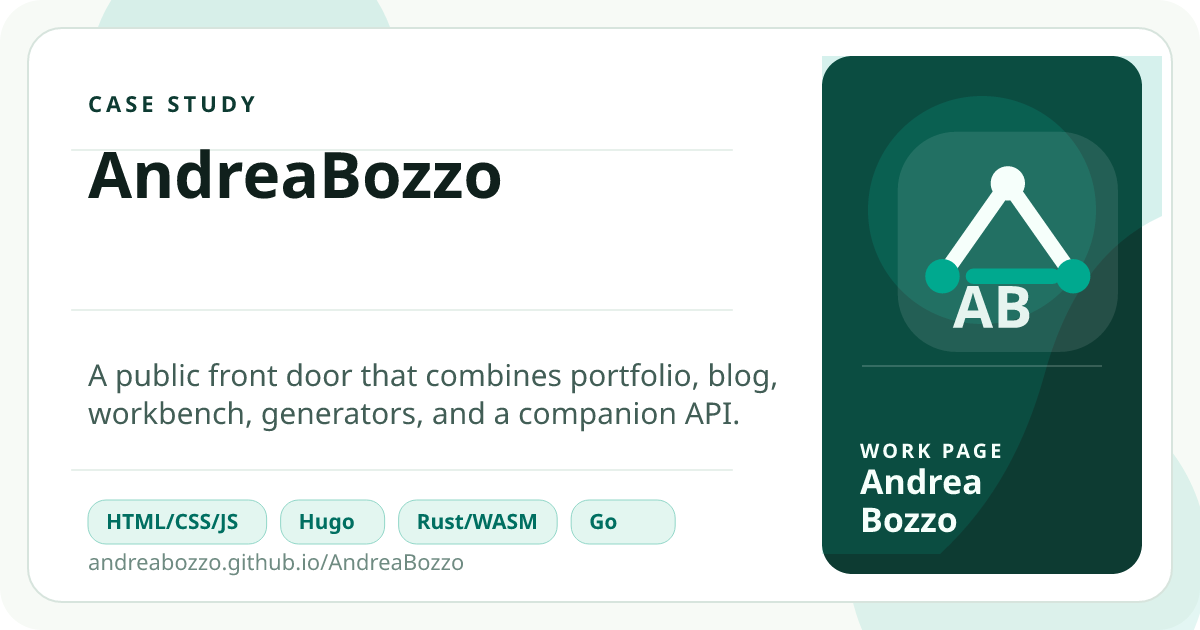
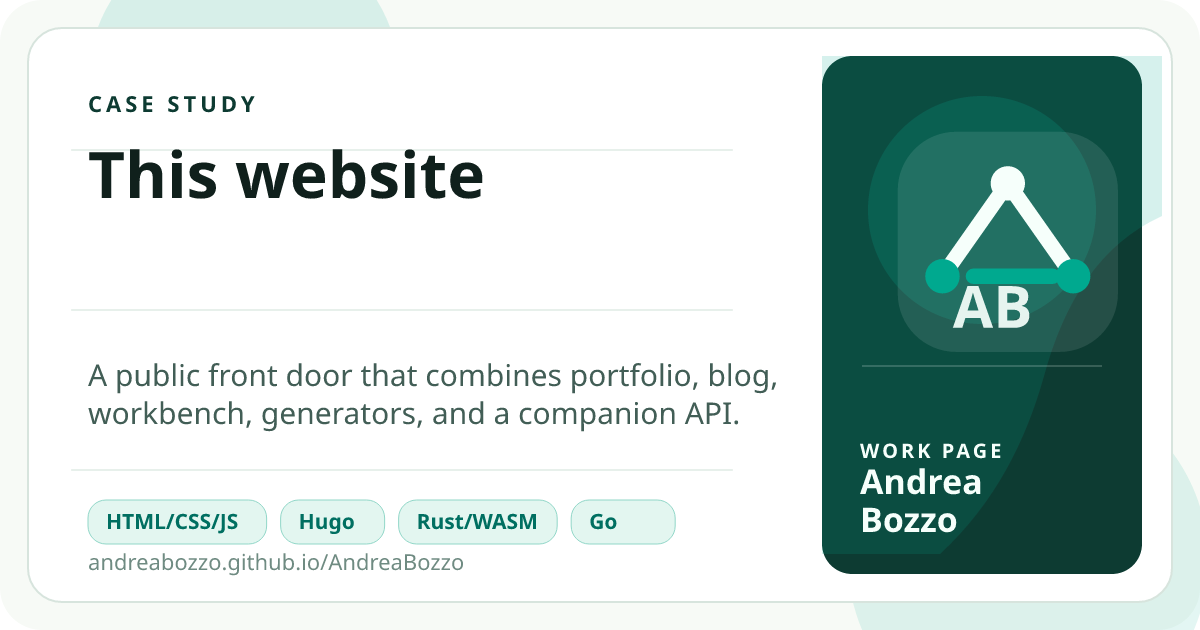
Update site content and metadata for improved clarity and relevance
- Changed site title and descriptions to reflect a more accurate representation of the website's purpose.
- Updated Open Graph and Twitter card metadata to align with new site title and descriptions.
- Modified SVG image text from "AndreaBozzo" to "This website" for consistency.
- Adjusted navigation links in various case study pages to refer to "This website" instead of "AndreaBozzo".
- Enhanced JSON-LD structured data with related links for DCE and Druid Segment Bridge case studies.
- Revised content in Mosaico case study to clarify its purpose and contributions.

Changed region(s): [[0.0617, 0.2413, 0.4317, 0.3317]]

diff --git a/it/work/andreabozzo-site/index.html b/it/work/andreabozzo-site/index.html
@@ -4,8 +4,8 @@
 <head>
     <meta charset="UTF-8">
     <meta name="viewport" content="width=device-width, initial-scale=1.0, viewport-fit=cover">
-    <title>AndreaBozzo | Andrea Bozzo</title>
-    <meta name="description" content="AndreaBozzo: il sito personale come sistema, con landing page handcrafted, blog Hugo, workbench Rust/WASM, generatori Go e API GitHub stats su Vercel.">
+    <title>Questo sito | Andrea Bozzo</title>
+    <meta name="description" content="Questo sito: il portfolio personale come sistema, con landing page handcrafted, blog Hugo, workbench Rust/WASM, generatori Go e API GitHub stats su Vercel.">
     <meta name="author" content="Andrea Bozzo">
     <meta name="robots" content="index, follow">
     <link rel="canonical" href="https://andreabozzo.github.io/AndreaBozzo/it/work/andreabozzo-site/">
@@ -15,20 +15,20 @@
     <meta property="og:locale" content="it_IT">
     <meta property="og:locale:alternate" content="en_US">
     <meta property="og:type" content="article">
-    <meta property="og:title" content="AndreaBozzo | Andrea Bozzo">
-    <meta property="og:description" content="AndreaBozzo: il sito personale come sistema, con landing page handcrafted, blog Hugo, workbench Rust/WASM, generatori Go e API GitHub stats su Vercel.">
+    <meta property="og:title" content="Questo sito | Andrea Bozzo">
+    <meta property="og:description" content="Questo sito: il portfolio personale come sistema, con landing page handcrafted, blog Hugo, workbench Rust/WASM, generatori Go e API GitHub stats su Vercel.">
     <meta property="og:url" content="https://andreabozzo.github.io/AndreaBozzo/it/work/andreabozzo-site/">
     <meta property="og:site_name" content="Andrea Bozzo">
     <meta property="og:image" content="https://andreabozzo.github.io/AndreaBozzo/assets/images/og/andreabozzo-site.png">
     <meta property="og:image:type" content="image/png">
     <meta property="og:image:width" content="1200">
     <meta property="og:image:height" content="630">
-    <meta property="og:image:alt" content="AndreaBozzo social card">
+    <meta property="og:image:alt" content="Questo sito social card">
     <meta name="twitter:card" content="summary_large_image">
-    <meta name="twitter:title" content="AndreaBozzo | Andrea Bozzo">
-    <meta name="twitter:description" content="AndreaBozzo: il sito personale come sistema, con landing page handcrafted, blog Hugo, workbench Rust/WASM, generatori Go e API GitHub stats su Vercel.">
+    <meta name="twitter:title" content="Questo sito | Andrea Bozzo">
+    <meta name="twitter:description" content="Questo sito: il portfolio personale come sistema, con landing page handcrafted, blog Hugo, workbench Rust/WASM, generatori Go e API GitHub stats su Vercel.">
     <meta name="twitter:image" content="https://andreabozzo.github.io/AndreaBozzo/assets/images/og/andreabozzo-site.png">
-    <meta name="twitter:image:alt" content="AndreaBozzo social card">
+    <meta name="twitter:image:alt" content="Questo sito social card">
     <meta name="theme-color" content="#f7faf6">
     <link rel="preconnect" href="https://fonts.googleapis.com">
     <link rel="preconnect" href="https://fonts.gstatic.com" crossorigin>
@@ -43,7 +43,7 @@
             document.documentElement.setAttribute('data-theme', savedTheme);
         })();
     </script>
-    <script type="application/ld+json">{"@context":"https://schema.org","@type":"CreativeWork","additionalType":"https://schema.org/CaseStudy","author":{"@type":"Person","name":"Andrea Bozzo","url":"https://andreabozzo.github.io/AndreaBozzo/"},"dateModified":"2026-05-15T08:01:30Z","description":"AndreaBozzo: il sito personale come sistema, con landing page handcrafted, blog Hugo, workbench Rust/WASM, generatori Go e API GitHub stats su Vercel.","headline":"AndreaBozzo","image":"https://andreabozzo.github.io/AndreaBozzo/assets/images/og/andreabozzo-site.png","inLanguage":"it","isPartOf":{"@id":"https://andreabozzo.github.io/AndreaBozzo/","@type":"WebSite"},"keywords":"HTML/CSS/JS, Hugo, Rust/WASM, Go, GitHub Pages","mainEntityOfPage":"https://andreabozzo.github.io/AndreaBozzo/it/work/andreabozzo-site/","mentions":[{"@type":"Thing","name":"HTML/CSS/JS"},{"@type":"Thing","name":"Hugo"},{"@type":"Thing","name":"Rust/WASM"},{"@type":"Thing","name":"Go"},{"@type":"Thing","name":"GitHub Pages"}],"name":"AndreaBozzo","publisher":{"@type":"Person","name":"Andrea Bozzo","url":"https://andreabozzo.github.io/AndreaBozzo/"},"sameAs":["https://github.com/AndreaBozzo/AndreaBozzo"],"url":"https://andreabozzo.github.io/AndreaBozzo/it/work/andreabozzo-site/"}</script>
+    <script type="application/ld+json">{"@context":"https://schema.org","@type":"CreativeWork","additionalType":"https://schema.org/CaseStudy","author":{"@type":"Person","name":"Andrea Bozzo","url":"https://andreabozzo.github.io/AndreaBozzo/"},"dateModified":"2026-05-15T08:01:30Z","description":"Questo sito: il portfolio personale come sistema, con landing page handcrafted, blog Hugo, workbench Rust/WASM, generatori Go e API GitHub stats su Vercel.","headline":"Questo sito","image":"https://andreabozzo.github.io/AndreaBozzo/assets/images/og/andreabozzo-site.png","inLanguage":"it","isPartOf":{"@id":"https://andreabozzo.github.io/AndreaBozzo/","@type":"WebSite"},"keywords":"HTML/CSS/JS, Hugo, Rust/WASM, Go, GitHub Pages","mainEntityOfPage":"https://andreabozzo.github.io/AndreaBozzo/it/work/andreabozzo-site/","mentions":[{"@type":"Thing","name":"HTML/CSS/JS"},{"@type":"Thing","name":"Hugo"},{"@type":"Thing","name":"Rust/WASM"},{"@type":"Thing","name":"Go"},{"@type":"Thing","name":"GitHub Pages"}],"name":"Questo sito","publisher":{"@type":"Person","name":"Andrea Bozzo","url":"https://andreabozzo.github.io/AndreaBozzo/"},"sameAs":["https://github.com/AndreaBozzo/AndreaBozzo"],"url":"https://andreabozzo.github.io/AndreaBozzo/it/work/andreabozzo-site/"}</script>
 </head>
 <body>
     <header class="site-header">
@@ -68,7 +68,7 @@
         <section class="case-hero">
             <div class="case-hero-copy">
                 <p class="eyebrow">Case Study</p>
-                <h1 class="title">AndreaBozzo</h1>
+                <h1 class="title">Questo sito</h1>
                 <p class="subtitle">Una porta d&#39;ingresso pubblica che combina portfolio, blog, workbench, generatori e una companion API.</p>
                 <div class="case-meta">
                     <span class="case-meta-status">Sistema live</span>

diff --git a/work/andreabozzo-site/index.html b/work/andreabozzo-site/index.html
@@ -4,7 +4,7 @@
 <head>
     <meta charset="UTF-8">
     <meta name="viewport" content="width=device-width, initial-scale=1.0, viewport-fit=cover">
-    <title>AndreaBozzo | Andrea Bozzo</title>
+    <title>This website | Andrea Bozzo</title>
     <meta name="description" content="This repository is both the personal website and the system behind it: a handcrafted landing page, a Hugo blog, a Rust/WASM knowledge workbench, Go generators for static artifacts, and a small Vercel-hosted GitHub stats API.">
     <meta name="author" content="Andrea Bozzo">
     <meta name="robots" content="index, follow">
@@ -15,7 +15,7 @@
     <meta property="og:locale" content="en_US">
     <meta property="og:locale:alternate" content="it_IT">
     <meta property="og:type" content="article">
-    <meta property="og:title" content="AndreaBozzo | Andrea Bozzo">
+    <meta property="og:title" content="This website | Andrea Bozzo">
     <meta property="og:description" content="This repository is both the personal website and the system behind it: a handcrafted landing page, a Hugo blog, a Rust/WASM knowledge workbench, Go generators for static artifacts, and a small Vercel-hosted GitHub stats API.">
     <meta property="og:url" content="https://andreabozzo.github.io/AndreaBozzo/work/andreabozzo-site/">
     <meta property="og:site_name" content="Andrea Bozzo">
@@ -23,12 +23,12 @@
     <meta property="og:image:type" content="image/png">
     <meta property="og:image:width" content="1200">
     <meta property="og:image:height" content="630">
-    <meta property="og:image:alt" content="AndreaBozzo social card">
+    <meta property="og:image:alt" content="This website social card">
     <meta name="twitter:card" content="summary_large_image">
-    <meta name="twitter:title" content="AndreaBozzo | Andrea Bozzo">
+    <meta name="twitter:title" content="This website | Andrea Bozzo">
     <meta name="twitter:description" content="This repository is both the personal website and the system behind it: a handcrafted landing page, a Hugo blog, a Rust/WASM knowledge workbench, Go generators for static artifacts, and a small Vercel-hosted GitHub stats API.">
     <meta name="twitter:image" content="https://andreabozzo.github.io/AndreaBozzo/assets/images/og/andreabozzo-site.png">
-    <meta name="twitter:image:alt" content="AndreaBozzo social card">
+    <meta name="twitter:image:alt" content="This website social card">
     <meta name="theme-color" content="#f7faf6">
     <link rel="preconnect" href="https://fonts.googleapis.com">
     <link rel="preconnect" href="https://fonts.gstatic.com" crossorigin>
@@ -43,7 +43,7 @@
             document.documentElement.setAttribute('data-theme', savedTheme);
         })();
     </script>
-    <script type="application/ld+json">{"@context":"https://schema.org","@type":"CreativeWork","additionalType":"https://schema.org/CaseStudy","author":{"@type":"Person","name":"Andrea Bozzo","url":"https://andreabozzo.github.io/AndreaBozzo/"},"dateModified":"2026-05-15T08:01:30Z","description":"This repository is both the personal website and the system behind it: a handcrafted landing page, a Hugo blog, a Rust/WASM knowledge workbench, Go generators for static artifacts, and a small Vercel-hosted GitHub stats API.","headline":"AndreaBozzo","image":"https://andreabozzo.github.io/AndreaBozzo/assets/images/og/andreabozzo-site.png","inLanguage":"en","isPartOf":{"@id":"https://andreabozzo.github.io/AndreaBozzo/","@type":"WebSite"},"keywords":"HTML/CSS/JS, Hugo, Rust/WASM, Go, GitHub Pages","mainEntityOfPage":"https://andreabozzo.github.io/AndreaBozzo/work/andreabozzo-site/","mentions":[{"@type":"Thing","name":"HTML/CSS/JS"},{"@type":"Thing","name":"Hugo"},{"@type":"Thing","name":"Rust/WASM"},{"@type":"Thing","name":"Go"},{"@type":"Thing","name":"GitHub Pages"}],"name":"AndreaBozzo","publisher":{"@type":"Person","name":"Andrea Bozzo","url":"https://andreabozzo.github.io/AndreaBozzo/"},"sameAs":["https://github.com/AndreaBozzo/AndreaBozzo"],"url":"https://andreabozzo.github.io/AndreaBozzo/work/andreabozzo-site/"}</script>
+    <script type="application/ld+json">{"@context":"https://schema.org","@type":"CreativeWork","additionalType":"https://schema.org/CaseStudy","author":{"@type":"Person","name":"Andrea Bozzo","url":"https://andreabozzo.github.io/AndreaBozzo/"},"dateModified":"2026-05-15T08:01:30Z","description":"This repository is both the personal website and the system behind it: a handcrafted landing page, a Hugo blog, a Rust/WASM knowledge workbench, Go generators for static artifacts, and a small Vercel-hosted GitHub stats API.","headline":"This website","image":"https://andreabozzo.github.io/AndreaBozzo/assets/images/og/andreabozzo-site.png","inLanguage":"en","isPartOf":{"@id":"https://andreabozzo.github.io/AndreaBozzo/","@type":"WebSite"},"keywords":"HTML/CSS/JS, Hugo, Rust/WASM, Go, GitHub Pages","mainEntityOfPage":"https://andreabozzo.github.io/AndreaBozzo/work/andreabozzo-site/","mentions":[{"@type":"Thing","name":"HTML/CSS/JS"},{"@type":"Thing","name":"Hugo"},{"@type":"Thing","name":"Rust/WASM"},{"@type":"Thing","name":"Go"},{"@type":"Thing","name":"GitHub Pages"}],"name":"This website","publisher":{"@type":"Person","name":"Andrea Bozzo","url":"https://andreabozzo.github.io/AndreaBozzo/"},"sameAs":["https://github.com/AndreaBozzo/AndreaBozzo"],"url":"https://andreabozzo.github.io/AndreaBozzo/work/andreabozzo-site/"}</script>
 </head>
 <body>
     <header class="site-header">
@@ -68,7 +68,7 @@
         <section class="case-hero">
             <div class="case-hero-copy">
                 <p class="eyebrow">Case Study</p>
-                <h1 class="title">AndreaBozzo</h1>
+                <h1 class="title">This website</h1>
                 <p class="subtitle">A public front door that combines portfolio, blog, workbench, generators, and a companion API.</p>
                 <div class="case-meta">
                     <span class="case-meta-status">Live system</span>

diff --git a/work/druid-datafusion-bridge/index.html b/work/druid-datafusion-bridge/index.html
@@ -43,7 +43,7 @@
             document.documentElement.setAttribute('data-theme', savedTheme);
         })();
     </script>
-    <script type="application/ld+json">{"@context":"https://schema.org","@type":"CreativeWork","additionalType":"https://schema.org/CaseStudy","author":{"@type":"Person","name":"Andrea Bozzo","url":"https://andreabozzo.github.io/AndreaBozzo/"},"dateModified":"2026-05-15T08:01:30Z","description":"A Rust bridge that reads Druid segment files directly and exposes them to DataFusion as queryable tables without requiring a running Druid cluster.","headline":"Druid Segment Bridge","image":"https://andreabozzo.github.io/AndreaBozzo/assets/images/og/druid-datafusion-bridge.png","inLanguage":"en","isPartOf":{"@id":"https://andreabozzo.github.io/AndreaBozzo/","@type":"WebSite"},"keywords":"Rust, Apache Druid, DataFusion, Arrow, Query Engine","mainEntityOfPage":"https://andreabozzo.github.io/AndreaBozzo/work/druid-datafusion-bridge/","mentions":[{"@type":"Thing","name":"Rust"},{"@type":"Thing","name":"Apache Druid"},{"@type":"Thing","name":"DataFusion"},{"@type":"Thing","name":"Arrow"},{"@type":"Thing","name":"Query Engine"}],"name":"Druid Segment Bridge","publisher":{"@type":"Person","name":"Andrea Bozzo","url":"https://andreabozzo.github.io/AndreaBozzo/"},"sameAs":["https://github.com/AndreaBozzo/druid-datafusion-bridge"],"url":"https://andreabozzo.github.io/AndreaBozzo/work/druid-datafusion-bridge/"}</script>
+    <script type="application/ld+json">{"@context":"https://schema.org","@type":"CreativeWork","additionalType":"https://schema.org/CaseStudy","author":{"@type":"Person","name":"Andrea Bozzo","url":"https://andreabozzo.github.io/AndreaBozzo/"},"dateModified":"2026-05-15T08:01:30Z","description":"A Rust bridge that reads Druid segment files directly and exposes them to DataFusion as queryable tables without requiring a running Druid cluster.","headline":"Druid Segment Bridge","image":"https://andreabozzo.github.io/AndreaBozzo/assets/images/og/druid-datafusion-bridge.png","inLanguage":"en","isPartOf":{"@id":"https://andreabozzo.github.io/AndreaBozzo/","@type":"WebSite"},"keywords":"Rust, Apache Druid, DataFusion, Arrow, Query Engine","mainEntityOfPage":"https://andreabozzo.github.io/AndreaBozzo/work/druid-datafusion-bridge/","mentions":[{"@type":"Thing","name":"Rust"},{"@type":"Thing","name":"Apache Druid"},{"@type":"Thing","name":"DataFusion"},{"@type":"Thing","name":"Arrow"},{"@type":"Thing","name":"Query Engine"}],"name":"Druid Segment Bridge","publisher":{"@type":"Person","name":"Andrea Bozzo","url":"https://andreabozzo.github.io/AndreaBozzo/"},"relatedLink":["https://andreabozzo.github.io/AndreaBozzo/blog/en/posts/polarsruststack-blog/"],"sameAs":["https://github.com/AndreaBozzo/druid-datafusion-bridge"],"url":"https://andreabozzo.github.io/AndreaBozzo/work/druid-datafusion-bridge/"}</script>
 </head>
 <body>
     <header class="site-header">
@@ -174,6 +174,7 @@
             </div>
             <aside class="case-aside">
                 <a class="btn btn-primary" href="https://github.com/AndreaBozzo/druid-datafusion-bridge" target="_blank" rel="noopener noreferrer">Repository</a>
+                <a class="btn btn-secondary" href="../../blog/en/posts/polarsruststack-blog/">Related article</a>
 
                 <section class="case-data-group" aria-label="Proof metrics">
                     <p class="case-data-kicker">Proof metrics</p>

diff --git a/it/work/druid-datafusion-bridge/index.html b/it/work/druid-datafusion-bridge/index.html
@@ -43,7 +43,7 @@
             document.documentElement.setAttribute('data-theme', savedTheme);
         })();
     </script>
-    <script type="application/ld+json">{"@context":"https://schema.org","@type":"CreativeWork","additionalType":"https://schema.org/CaseStudy","author":{"@type":"Person","name":"Andrea Bozzo","url":"https://andreabozzo.github.io/AndreaBozzo/"},"dateModified":"2026-05-15T08:01:30Z","description":"druid-datafusion-bridge: bridge Rust che legge segmenti Apache Druid direttamente e li espone come tabelle DataFusion.","headline":"Druid Segment Bridge","image":"https://andreabozzo.github.io/AndreaBozzo/assets/images/og/druid-datafusion-bridge.png","inLanguage":"it","isPartOf":{"@id":"https://andreabozzo.github.io/AndreaBozzo/","@type":"WebSite"},"keywords":"Rust, Apache Druid, DataFusion, Arrow, Query Engine","mainEntityOfPage":"https://andreabozzo.github.io/AndreaBozzo/it/work/druid-datafusion-bridge/","mentions":[{"@type":"Thing","name":"Rust"},{"@type":"Thing","name":"Apache Druid"},{"@type":"Thing","name":"DataFusion"},{"@type":"Thing","name":"Arrow"},{"@type":"Thing","name":"Query Engine"}],"name":"Druid Segment Bridge","publisher":{"@type":"Person","name":"Andrea Bozzo","url":"https://andreabozzo.github.io/AndreaBozzo/"},"sameAs":["https://github.com/AndreaBozzo/druid-datafusion-bridge"],"url":"https://andreabozzo.github.io/AndreaBozzo/it/work/druid-datafusion-bridge/"}</script>
+    <script type="application/ld+json">{"@context":"https://schema.org","@type":"CreativeWork","additionalType":"https://schema.org/CaseStudy","author":{"@type":"Person","name":"Andrea Bozzo","url":"https://andreabozzo.github.io/AndreaBozzo/"},"dateModified":"2026-05-15T08:01:30Z","description":"druid-datafusion-bridge: bridge Rust che legge segmenti Apache Druid direttamente e li espone come tabelle DataFusion.","headline":"Druid Segment Bridge","image":"https://andreabozzo.github.io/AndreaBozzo/assets/images/og/druid-datafusion-bridge.png","inLanguage":"it","isPartOf":{"@id":"https://andreabozzo.github.io/AndreaBozzo/","@type":"WebSite"},"keywords":"Rust, Apache Druid, DataFusion, Arrow, Query Engine","mainEntityOfPage":"https://andreabozzo.github.io/AndreaBozzo/it/work/druid-datafusion-bridge/","mentions":[{"@type":"Thing","name":"Rust"},{"@type":"Thing","name":"Apache Druid"},{"@type":"Thing","name":"DataFusion"},{"@type":"Thing","name":"Arrow"},{"@type":"Thing","name":"Query Engine"}],"name":"Druid Segment Bridge","publisher":{"@type":"Person","name":"Andrea Bozzo","url":"https://andreabozzo.github.io/AndreaBozzo/"},"relatedLink":["https://andreabozzo.github.io/AndreaBozzo/blog/posts/polarsruststack-blog/"],"sameAs":["https://github.com/AndreaBozzo/druid-datafusion-bridge"],"url":"https://andreabozzo.github.io/AndreaBozzo/it/work/druid-datafusion-bridge/"}</script>
 </head>
 <body>
     <header class="site-header">
@@ -174,6 +174,7 @@
             </div>
             <aside class="case-aside">
                 <a class="btn btn-primary" href="https://github.com/AndreaBozzo/druid-datafusion-bridge" target="_blank" rel="noopener noreferrer">Repository</a>
+                <a class="btn btn-secondary" href="../../../blog/posts/polarsruststack-blog/">Related article</a>
 
                 <section class="case-data-group" aria-label="Metriche di prova">
                     <p class="case-data-kicker">Metriche di prova</p>

diff --git a/work/dce/index.html b/work/dce/index.html
@@ -43,7 +43,7 @@
             document.documentElement.setAttribute('data-theme', savedTheme);
         })();
     </script>
-    <script type="application/ld+json">{"@context":"https://schema.org","@type":"CreativeWork","additionalType":"https://schema.org/CaseStudy","author":{"@type":"Person","name":"Andrea Bozzo","url":"https://andreabozzo.github.io/AndreaBozzo/"},"dateModified":"2026-05-15T08:01:30Z","description":"A Rust-native engine for defining, validating, and enforcing data contracts across modern table formats, shifting quality checks from after-the-fact profiling to contract execution.","headline":"DCE","image":"https://andreabozzo.github.io/AndreaBozzo/assets/images/og/dce.png","inLanguage":"en","isPartOf":{"@id":"https://andreabozzo.github.io/AndreaBozzo/","@type":"WebSite"},"keywords":"Rust, Data Contracts, Data Quality, Iceberg, YAML","mainEntityOfPage":"https://andreabozzo.github.io/AndreaBozzo/work/dce/","mentions":[{"@type":"Thing","name":"Rust"},{"@type":"Thing","name":"Data Contracts"},{"@type":"Thing","name":"Data Quality"},{"@type":"Thing","name":"Iceberg"},{"@type":"Thing","name":"YAML"}],"name":"DCE","publisher":{"@type":"Person","name":"Andrea Bozzo","url":"https://andreabozzo.github.io/AndreaBozzo/"},"sameAs":["https://github.com/AndreaBozzo/dce"],"url":"https://andreabozzo.github.io/AndreaBozzo/work/dce/"}</script>
+    <script type="application/ld+json">{"@context":"https://schema.org","@type":"CreativeWork","additionalType":"https://schema.org/CaseStudy","author":{"@type":"Person","name":"Andrea Bozzo","url":"https://andreabozzo.github.io/AndreaBozzo/"},"dateModified":"2026-05-15T08:01:30Z","description":"A Rust-native engine for defining, validating, and enforcing data contracts across modern table formats, shifting quality checks from after-the-fact profiling to contract execution.","headline":"DCE","image":"https://andreabozzo.github.io/AndreaBozzo/assets/images/og/dce.png","inLanguage":"en","isPartOf":{"@id":"https://andreabozzo.github.io/AndreaBozzo/","@type":"WebSite"},"keywords":"Rust, Data Contracts, Data Quality, Iceberg, YAML","mainEntityOfPage":"https://andreabozzo.github.io/AndreaBozzo/work/dce/","mentions":[{"@type":"Thing","name":"Rust"},{"@type":"Thing","name":"Data Contracts"},{"@type":"Thing","name":"Data Quality"},{"@type":"Thing","name":"Iceberg"},{"@type":"Thing","name":"YAML"}],"name":"DCE","publisher":{"@type":"Person","name":"Andrea Bozzo","url":"https://andreabozzo.github.io/AndreaBozzo/"},"relatedLink":["https://andreabozzo.github.io/AndreaBozzo/blog/en/posts/tabularmlpipes-blog/"],"sameAs":["https://github.com/AndreaBozzo/dce"],"url":"https://andreabozzo.github.io/AndreaBozzo/work/dce/"}</script>
 </head>
 <body>
     <header class="site-header">
@@ -174,6 +174,7 @@
             </div>
             <aside class="case-aside">
                 <a class="btn btn-primary" href="https://github.com/AndreaBozzo/dce" target="_blank" rel="noopener noreferrer">Repository</a>
+                <a class="btn btn-secondary" href="../../blog/en/posts/tabularmlpipes-blog/">Related article</a>
 
                 <section class="case-data-group" aria-label="Proof metrics">
                     <p class="case-data-kicker">Proof metrics</p>

diff --git a/it/work/dce/index.html b/it/work/dce/index.html
@@ -43,7 +43,7 @@
             document.documentElement.setAttribute('data-theme', savedTheme);
         })();
     </script>
-    <script type="application/ld+json">{"@context":"https://schema.org","@type":"CreativeWork","additionalType":"https://schema.org/CaseStudy","author":{"@type":"Person","name":"Andrea Bozzo","url":"https://andreabozzo.github.io/AndreaBozzo/"},"dateModified":"2026-05-15T08:01:30Z","description":"DCE: motore Rust-native per definire e applicare data contract su formati di tabella moderni, costruito dal core di dataprof.","headline":"DCE","image":"https://andreabozzo.github.io/AndreaBozzo/assets/images/og/dce.png","inLanguage":"it","isPartOf":{"@id":"https://andreabozzo.github.io/AndreaBozzo/","@type":"WebSite"},"keywords":"Rust, Data Contracts, Data Quality, Iceberg, YAML","mainEntityOfPage":"https://andreabozzo.github.io/AndreaBozzo/it/work/dce/","mentions":[{"@type":"Thing","name":"Rust"},{"@type":"Thing","name":"Data Contracts"},{"@type":"Thing","name":"Data Quality"},{"@type":"Thing","name":"Iceberg"},{"@type":"Thing","name":"YAML"}],"name":"DCE","publisher":{"@type":"Person","name":"Andrea Bozzo","url":"https://andreabozzo.github.io/AndreaBozzo/"},"sameAs":["https://github.com/AndreaBozzo/dce"],"url":"https://andreabozzo.github.io/AndreaBozzo/it/work/dce/"}</script>
+    <script type="application/ld+json">{"@context":"https://schema.org","@type":"CreativeWork","additionalType":"https://schema.org/CaseStudy","author":{"@type":"Person","name":"Andrea Bozzo","url":"https://andreabozzo.github.io/AndreaBozzo/"},"dateModified":"2026-05-15T08:01:30Z","description":"DCE: motore Rust-native per definire e applicare data contract su formati di tabella moderni, costruito dal core di dataprof.","headline":"DCE","image":"https://andreabozzo.github.io/AndreaBozzo/assets/images/og/dce.png","inLanguage":"it","isPartOf":{"@id":"https://andreabozzo.github.io/AndreaBozzo/","@type":"WebSite"},"keywords":"Rust, Data Contracts, Data Quality, Iceberg, YAML","mainEntityOfPage":"https://andreabozzo.github.io/AndreaBozzo/it/work/dce/","mentions":[{"@type":"Thing","name":"Rust"},{"@type":"Thing","name":"Data Contracts"},{"@type":"Thing","name":"Data Quality"},{"@type":"Thing","name":"Iceberg"},{"@type":"Thing","name":"YAML"}],"name":"DCE","publisher":{"@type":"Person","name":"Andrea Bozzo","url":"https://andreabozzo.github.io/AndreaBozzo/"},"relatedLink":["https://andreabozzo.github.io/AndreaBozzo/blog/posts/tabularmlpipes-blog/"],"sameAs":["https://github.com/AndreaBozzo/dce"],"url":"https://andreabozzo.github.io/AndreaBozzo/it/work/dce/"}</script>
 </head>
 <body>
     <header class="site-header">
@@ -174,6 +174,7 @@
             </div>
             <aside class="case-aside">
                 <a class="btn btn-primary" href="https://github.com/AndreaBozzo/dce" target="_blank" rel="noopener noreferrer">Repository</a>
+                <a class="btn btn-secondary" href="../../../blog/posts/tabularmlpipes-blog/">Related article</a>
 
                 <section class="case-data-group" aria-label="Metriche di prova">
                     <p class="case-data-kicker">Metriche di prova</p>

diff --git a/it/work/mosaico/index.html b/it/work/mosaico/index.html
@@ -135,14 +135,14 @@
         <section class="case-layout">
             <div class="case-content">
                 <article class="case-main">
-                    <h2>Perché conta</h2>
-                    <p>I sistemi di robotica e physical-AI hanno bisogno di primitive di piattaforma dati che restino comprensibili quando gli esperimenti diventano operazioni reali. La pressione interessante è che questi sistemi sono insieme ambienti di ricerca e candidati per la produzione: i team hanno bisogno di iterazione veloce, ma anche di dataset riproducibili, job affidabili e interfacce che non collassino quando più ingegneri iniziano a dipenderne.</p>
+                    <h2>Perché esiste</h2>
+                    <p>I sistemi di robotica e physical-AI sono allo stesso tempo ambienti di ricerca e candidati alla produzione. I team hanno bisogno di iterazione veloce, ma anche di dataset riproducibili, job affidabili e interfacce che reggano quando più ingegneri iniziano a dipenderne. Mosaico è interessante proprio perché deve servire entrambe le modalità senza collassare in nessuna delle due.</p>
 
                     <h2>Centro tecnico</h2>
-                    <p>Il lavoro interessante sta ai confini dell&#39;integrazione: come l&#39;orchestrazione resta flessibile abbastanza per la sperimentazione restando debug-friendly per l&#39;ingegnere successivo. In Mosaico questo significa prestare attenzione ai contratti SDK e backend, al comportamento della CI, all&#39;ergonomia delle query e ai punti in cui il codice di piattaforma deve supportare workflow di robotica reali e disordinati senza nascondere troppo dietro la magia.</p>
+                    <p>Il lavoro di contribuzione sta ai confini dell&#39;integrazione: contratti SDK e backend, comportamento della CI, ergonomia delle query e i punti in cui l&#39;orchestrazione deve restare debug-friendly per l&#39;ingegnere successivo. Ogni PR mira a una giuntura in cui il codice di piattaforma incontra workflow di robotica reali e disordinati — i posti dove le astrazioni di comodo perdono di più.</p>
 
                     <h2>Prove correnti</h2>
-                    <p>Questo è già più di un riassunto di piattaforma: la cronologia visibile delle contribuzioni cade esattamente sui confini di workflow che contano nei sistemi di robotica, dove affidabilità della CI, ergonomia delle query e compatibilità SDK-server determinano se il tooling dati resta usabile dall&#39;ingegnere successivo. Il case study è utile perché tratta il lavoro di contribuzione come modo per capire una piattaforma dall&#39;interno, invece che come panoramica distaccata.</p>
+                    <p>La cronologia visibile delle contribuzioni cade sui confini di workflow che decidono se una piattaforma dati per robotica resta usabile tra team: affidabilità della CI, ergonomia delle query e compatibilità SDK-server. Il case study tratta il lavoro di contribuzione come modo per imparare una piattaforma dall&#39;interno, non come riassunto distaccato.</p>
 
                 </article>
 

diff --git a/work/mosaico/index.html b/work/mosaico/index.html
@@ -135,14 +135,14 @@
         <section class="case-layout">
             <div class="case-content">
                 <article class="case-main">
-                    <h2>Why it matters</h2>
-                    <p>Robotics and physical-AI systems need data platform primitives that remain understandable once experiments become real operations. The interesting pressure is that these systems are both research environments and production candidates: teams need fast iteration, but they also need reproducible datasets, reliable jobs, and interfaces that do not collapse when multiple engineers start depending on them.</p>
+                    <h2>Why it exists</h2>
+                    <p>Robotics and physical-AI systems are both research environments and production candidates at the same time. Teams need fast iteration, but they also need reproducible datasets, reliable jobs, and interfaces that hold up once multiple engineers start depending on them. Mosaico is interesting precisely because it has to serve both modes without collapsing into either one.</p>
 
                     <h2>Technical center</h2>
-                    <p>The interesting work sits at integration boundaries: how orchestration stays flexible enough for experimentation while remaining debuggable for the next engineer. In Mosaico that means paying attention to SDK and backend contracts, CI behavior, query ergonomics, and the places where platform code has to support messy real-world robotics workflows without hiding too much behind magic.</p>
+                    <p>The contribution work sits at integration boundaries: SDK and backend contracts, CI behavior, query ergonomics, and the places where orchestration has to stay debuggable for the next engineer. Each PR targets a seam where platform code meets messy real-world robotics workflows — the spots where convenience abstractions tend to leak the most.</p>
 
                     <h2>Current proof points</h2>
-                    <p>This is already more than a platform summary: the visible contribution history sits exactly at the workflow boundaries that matter in robotics systems, where CI reliability, query ergonomics, and SDK-server compatibility determine whether data tooling remains usable by the next engineer. The case study is useful because it treats contribution work as a way to understand a platform from the inside rather than as a detached overview.</p>
+                    <p>The visible contribution history lands on the workflow boundaries that decide whether a robotics data platform stays usable across teams: CI reliability, query ergonomics, and SDK-server compatibility. The case study treats contribution work as a way to learn a platform from the inside, not as a detached summary.</p>
 
                 </article>
 

diff --git a/it/work/datapizza-ai/index.html b/it/work/datapizza-ai/index.html
@@ -129,7 +129,7 @@
         <nav class="case-page-nav" aria-label="Navigazione case study">
             <a class="btn btn-secondary" href="../../../#workbench">Torna al workbench</a>
             <a class="btn btn-ghost" href="../druid-datafusion-bridge/">← druid-datafusion-bridge</a>
-            <a class="btn btn-ghost" href="../andreabozzo-site/">AndreaBozzo →</a>
+            <a class="btn btn-ghost" href="../andreabozzo-site/">Questo sito →</a>
         </nav>
 
         <section class="case-layout">
@@ -141,7 +141,7 @@
                     <h2>Centro tecnico</h2>
                     <p>Il framework stratifica un layer di client LLM multi-provider (OpenAI, Gemini, Anthropic, Mistral, Azure) sotto agenti con tool-calling, poi sopra una pipeline di ingestion e chunking documentale (Docling, Azure Document Intelligence) che alimenta una ricerca vettoriale su Qdrant con embedder Cohere o FastEmbed e reranking opzionale. Redis caching e tracciamento OpenTelemetry girano su tutti i layer. La disciplina architetturale è che lo switch di provider, la composizione degli agenti e il cablaggio della pipeline avvengono tutti in modo dichiarativo senza riscrivere la business logic.</p>
 
-                    <h2>Lavoro di contribuzione</h2>
+                    <h2>Prove correnti</h2>
                     <p>Cinque PR unite coprono i layer in cui il mandato di meno astrazione del framework crea più attrito nella pratica. La PR #55 ha aggiunto il supporto Bedrock async (a_invoke e a_stream_invoke via aioboto3) per sbloccare i pattern applicativi async-first. La PR #67 ha corretto IngestionPipeline.run() per accettare effettivamente una lista di file path come prometteva la sua stessa firma documentata. La PR #77 ha aggiunto un parametro metadata ad AzureParser e DoclingParser con validazione del tipo a runtime, così le pipeline possono passare contesto attraverso il layer di ingestion senza incorrere in un TypeError. La PR #97 ha introdotto un async context manager su MCPClient per sessioni persistenti, fondamentale per i server MCP stateful che mantengono connessioni database o stato di autenticazione tra le chiamate agli strumenti. La PR #106 ha rifattorizzato FastEmbedder per usare il batch processing nativo di fastembed e asyncio.to_thread() — eliminando logica duplicata e correggendo il percorso async in modo che l&#39;I/O bloccante non giri più sull&#39;event loop.</p>
 
                 </article>

diff --git a/work/datapizza-ai/index.html b/work/datapizza-ai/index.html
@@ -129,7 +129,7 @@
         <nav class="case-page-nav" aria-label="Case study navigation">
             <a class="btn btn-secondary" href="../../#workbench">Back to workbench</a>
             <a class="btn btn-ghost" href="../druid-datafusion-bridge/">← druid-datafusion-bridge</a>
-            <a class="btn btn-ghost" href="../andreabozzo-site/">AndreaBozzo →</a>
+            <a class="btn btn-ghost" href="../andreabozzo-site/">This website →</a>
         </nav>
 
         <section class="case-layout">
@@ -141,7 +141,7 @@
                     <h2>Technical center</h2>
                     <p>The framework layers a multi-provider LLM client layer (OpenAI, Gemini, Anthropic, Mistral, Azure) under tool-calling agents, then above that a document ingestion and chunking pipeline (Docling, Azure Document Intelligence) that feeds into Qdrant-backed vector search with Cohere or FastEmbed embedders and optional reranking. Redis caching and OpenTelemetry tracing run across all layers. The architectural discipline is that provider switching, agent composition, and pipeline wiring are all done declaratively without rewriting business logic.</p>
 
-                    <h2>Contribution work</h2>
+                    <h2>Current proof points</h2>
                     <p>Five merged PRs cover the layers where the framework&#39;s less-abstraction mandate creates the most friction in practice. PR #55 added async Bedrock support (a_invoke and a_stream_invoke via aioboto3) to unblock async-first application patterns. PR #67 fixed IngestionPipeline.run() to actually accept a list of file paths as its own documented signature promised. PR #77 added a metadata parameter to AzureParser and DoclingParser with runtime type validation so pipelines can pass context through the ingestion layer without hitting a TypeError. PR #97 introduced an async context manager on MCPClient for persistent sessions, which matters for any stateful MCP server that maintains database connections or authentication state across tool calls. PR #106 refactored FastEmbedder to use fastembed&#39;s native batch processing and asyncio.to_thread() — removing duplicated logic and fixing the async path so blocking I/O no longer runs on the event loop.</p>
 
                 </article>
